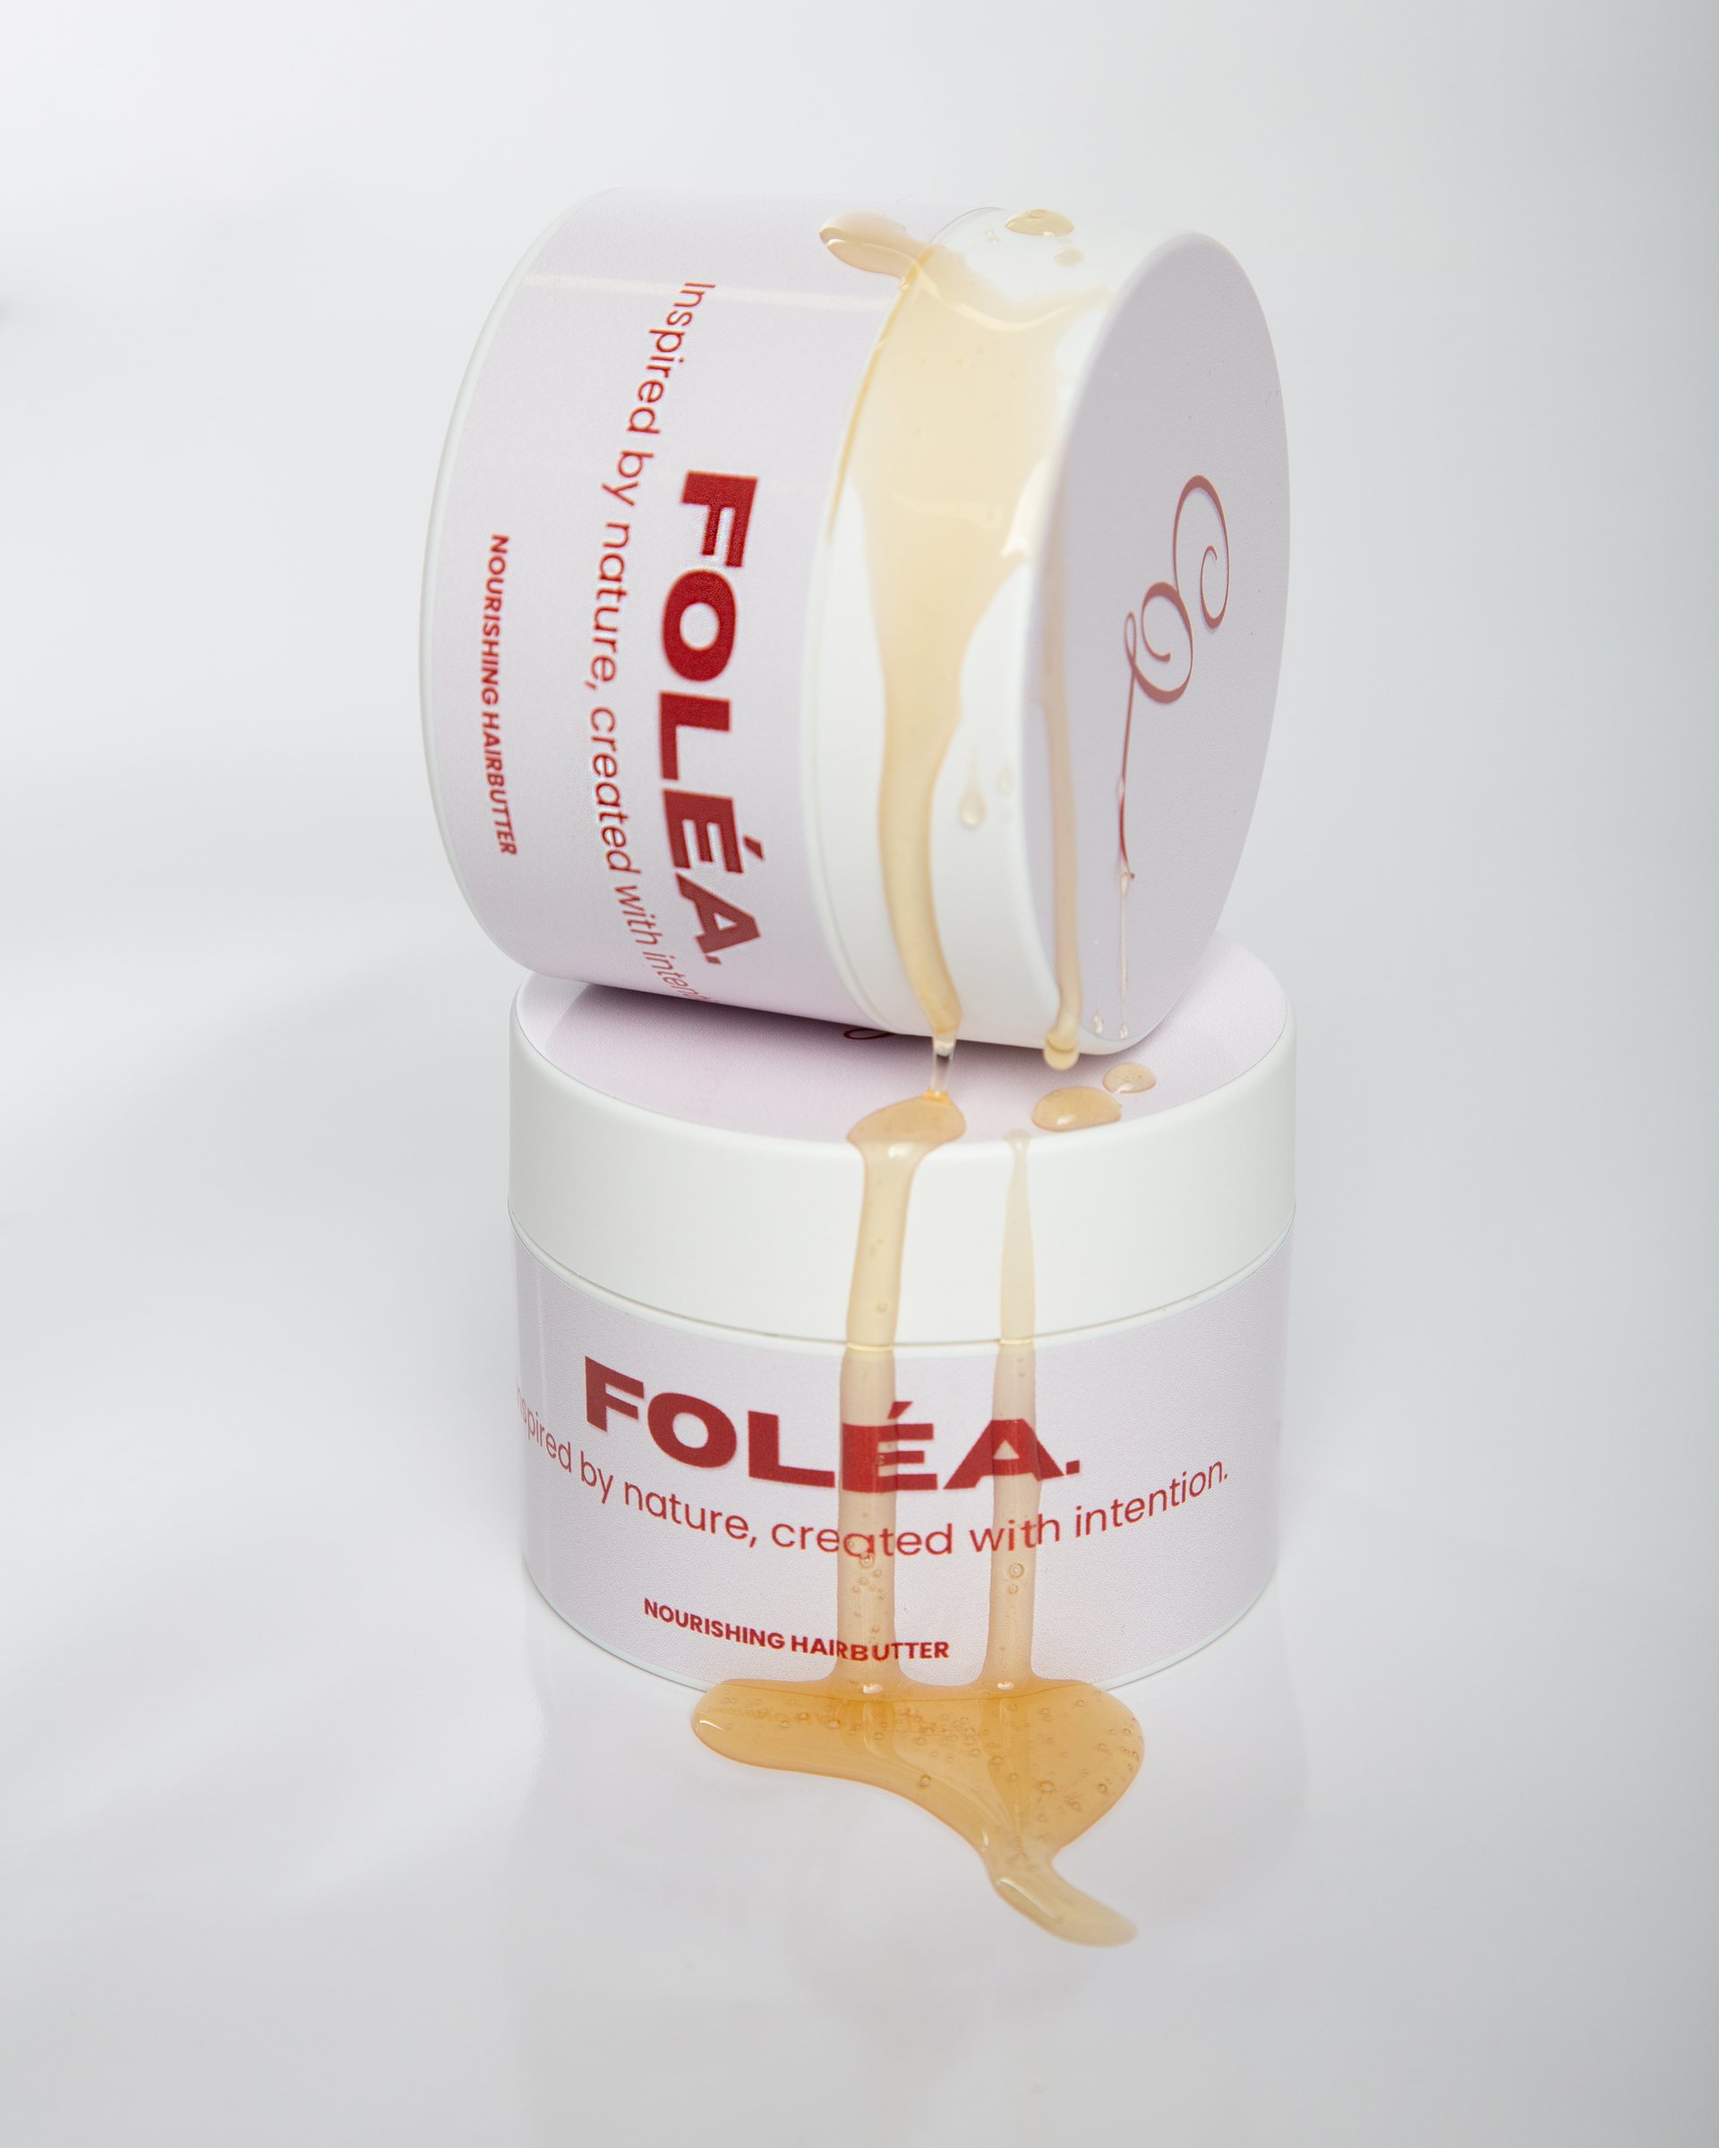
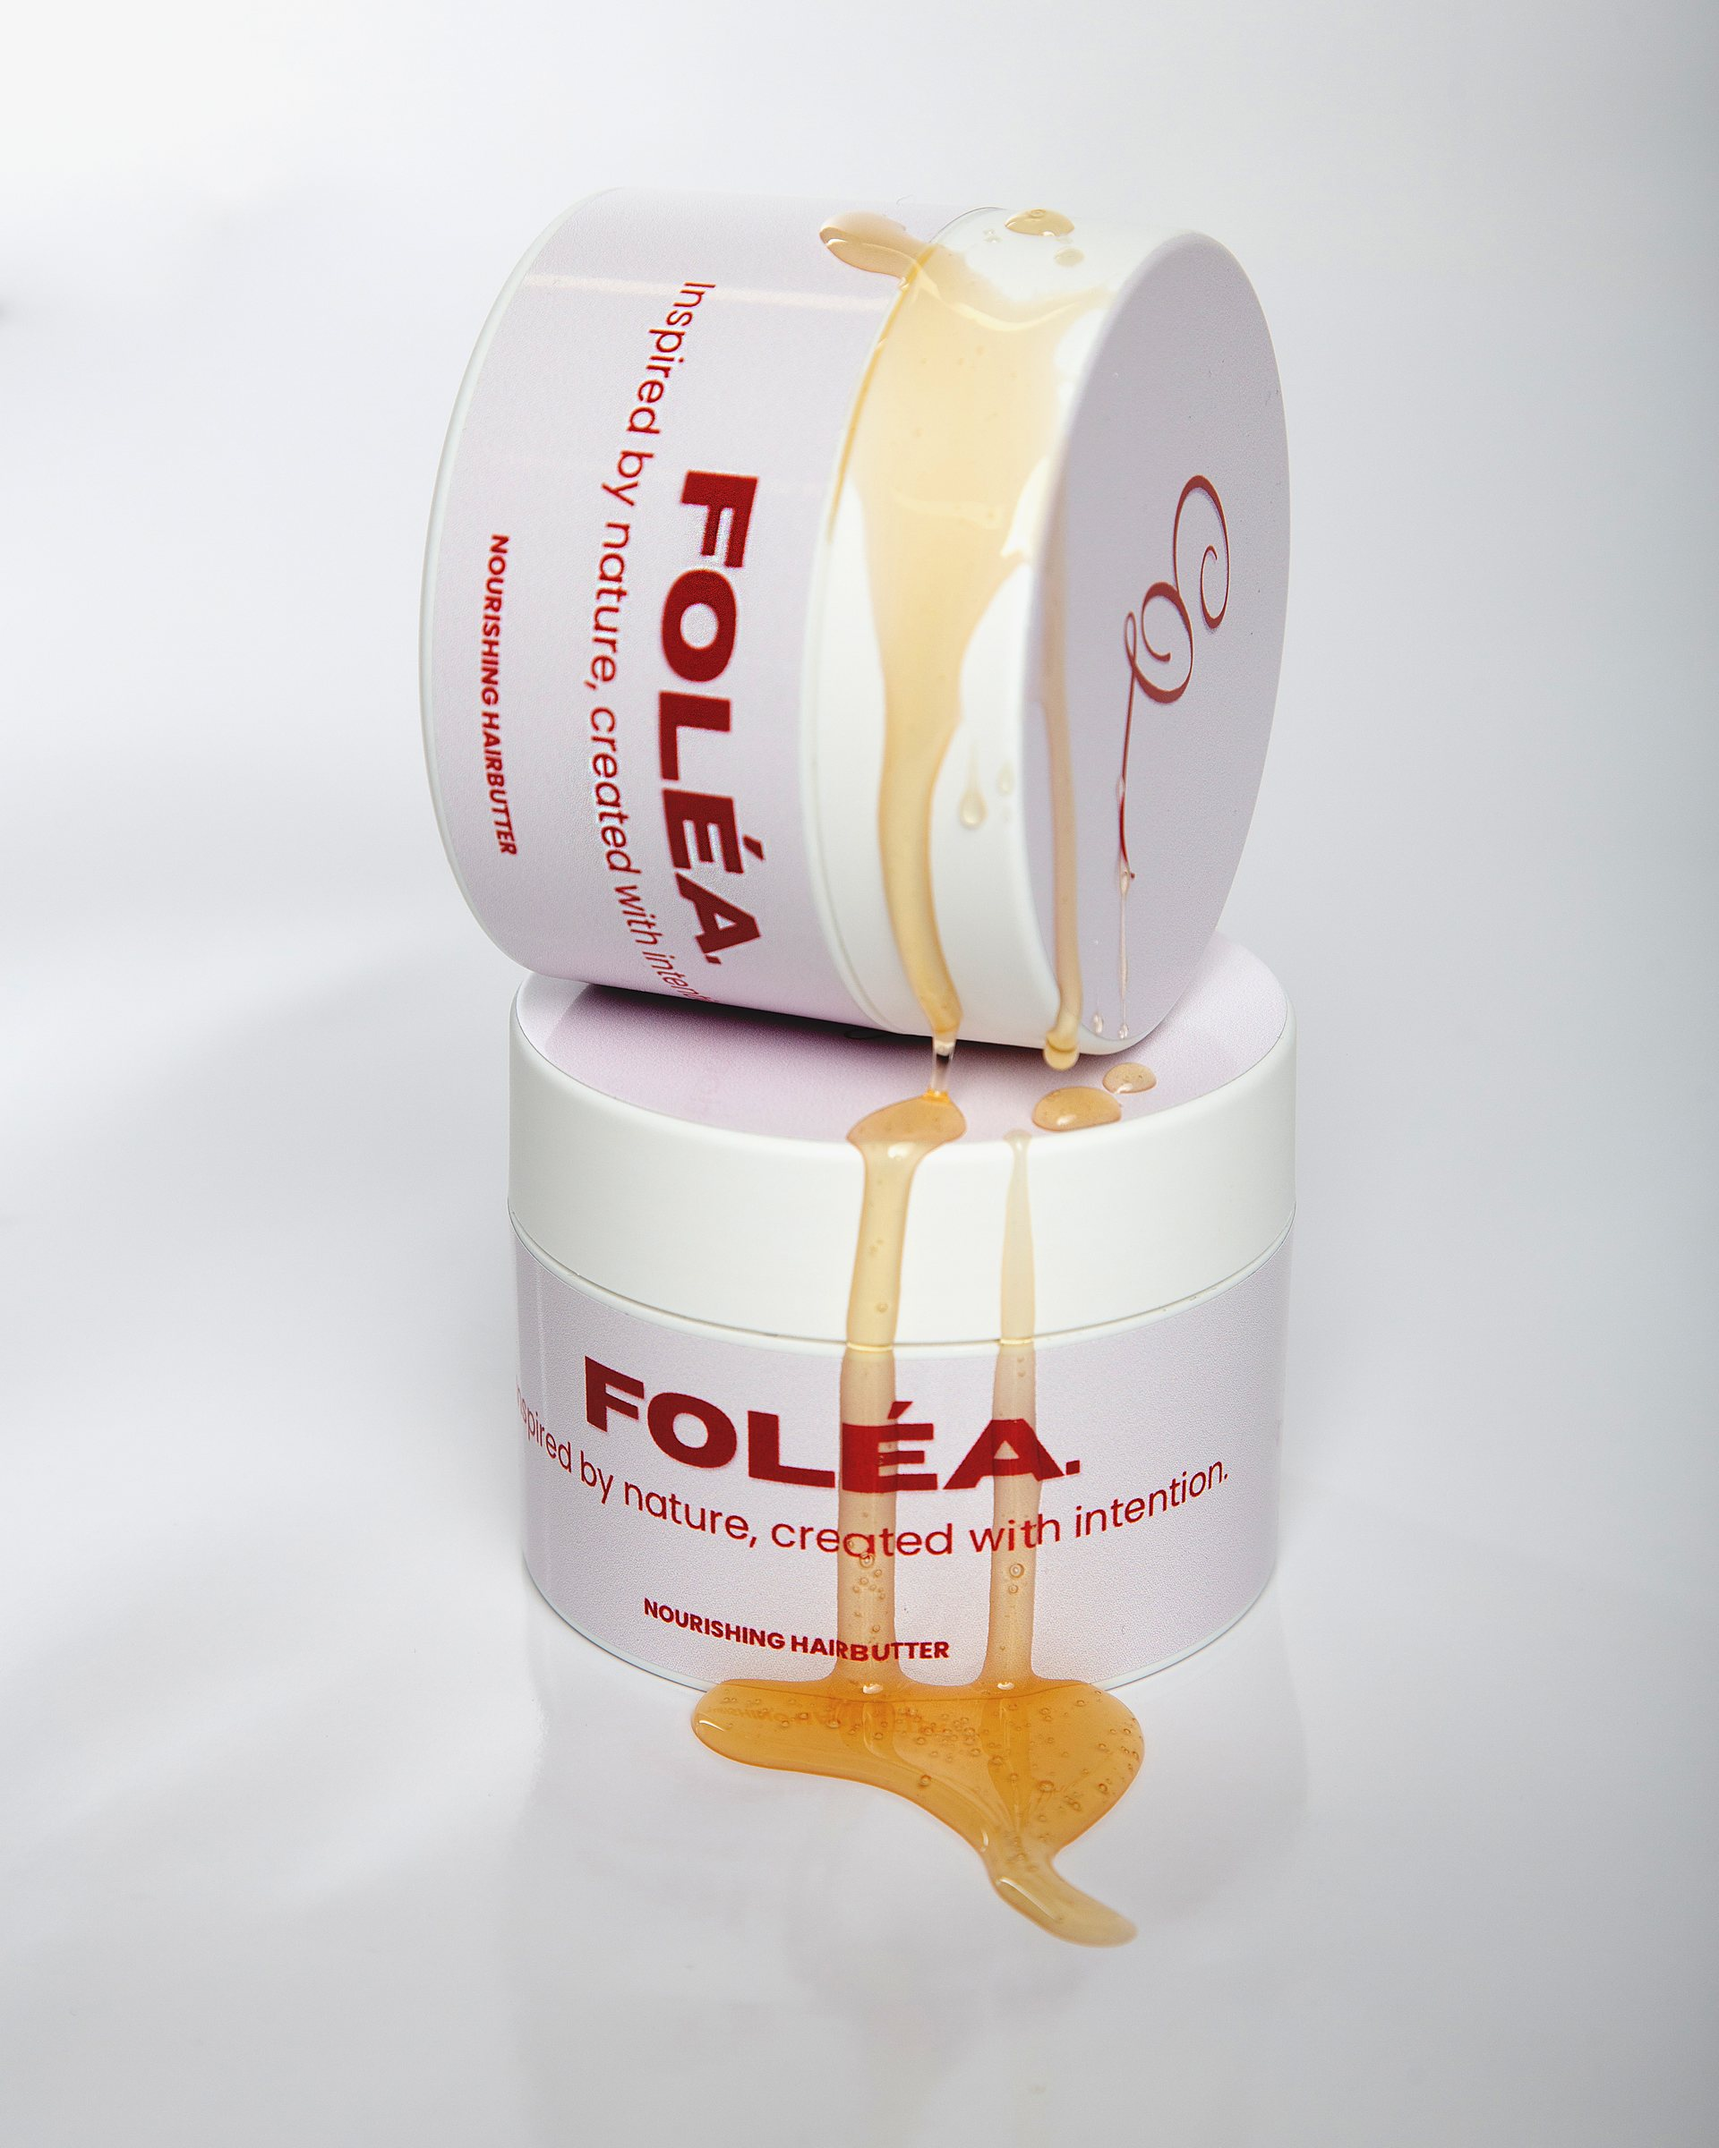
Productfoto's belicht via grading, niet via AI
De klant vond de foto's dof. De meting gaf ze gelijk: tonaal bereik van
114 tot 162 op 255, zonder echt zwart en zonder schoon hooglicht.

Eerst de generatieve route getest, want dat was het verzoek. Die is
onbruikbaar: elk beeldmodel in de catalogus neemt de foto als referentie
en niet als doek, dus het herfotografeerde de scene. De pot verschoof en
werd kleiner, het matte deksel werd glanzend, er kwam een harde
slagschaduw bij en het karmijn van het logo schoof 33 punten weg over
RGB. Eén poging, 1 credit, en daarna gestopt.

Wat wel werkt is graden vanaf de master: zwart- en witpunt zetten met één
LUT over alle drie de kanalen, plus milde verscherping op de zachte
opnames. Bereik gaat naar 190 tot 198. De tint van het karmijn schuift
daarbij 1,8 tot 3,0 graden, ruim onder wat het oog oppikt, terwijl de
verzadiging 10 tot 18 procent stijgt.

product-butter is bewust overgeslagen. De klant noemt die perfect, en het
is de enige opname met een echt achtergrondverloop.

diff --git a/CLAUDE.md b/CLAUDE.md
@@ -182,6 +182,12 @@ The client's full studio shoot has been delivered and is in rotation. Nineteen s
 
 **The six product stills are all 4:5 (1920x2400) and cropped tight from the masters.** The client said the product photos looked weak, and the measurable cause was framing, not the photography: in the master files the jar filled only 8% of the frame on `product-front`, 12% on `product-top`, 15% on `product-trio` and 19% on `product-duo`. The web versions inherited that dead space. Since the masters are 3264x4896, cropping in hard still leaves ~1900px of width, so this cost nothing in resolution and needed no AI.
 
+**Lighting was the second, separate complaint, and generative relighting is ruled out.** Measured tonal range on the shipped stills was 114 to 162 out of 255, with no true black and no clean highlight: that flatness is what reads as dull. One Higgsfield attempt (`seedream_v4_5`, 1 credit) proved the approach unusable here. Every image model in the catalogue takes the photo as `image_references`, not as a canvas to edit, so it re-shot the scene: the jar moved and shrank, the matte lid turned glossy, a hard cast shadow appeared, and the carmine drifted 33 points across RGB. The client's constraints (product unchanged, angle unchanged, no invented shadows, exact logo colour) cannot all hold while a model redraws the frame. Don't retry this with a different prompt; the failure is structural.
+
+What does work is grading from the master: per image, measure the 1st and 99th luminance percentile, map them 85% of the way toward a 20/247 black and white point with one LUT applied to all three channels, then a mild unsharp mask on the soft ones. The identical LUT per channel is what keeps hue intact. Verified by sampling the carmine pixels of the original and comparing the same coordinates after: hue moves 1.8 to 3.0 degrees on average, below the threshold where the eye reads a colour change, while saturation rises 10 to 18 percent, which is exactly the "less dull" the client asked for. **Measure hue as a circular mean over the same pixel set**; averaging raw hue angles across the 0/360 wrap, or re-detecting red pixels after the change, produces nonsense values in the 40 to 95 degree range.
+
+`product-butter` is deliberately excluded from the grading pass. The client calls it perfect and it is the only still with a real background falloff (measured 88 against 14 on `product-top`), which is why it reads better than the rest. There is no from-above frame of the jar in the shoot beyond `product-top`, so a new angle can only come from a reshoot.
+
 The crop pass is reproducible: find the product's bounding box by thresholding brightness (white jar against grey seamless) plus the red-minus-blue channel (pink label and carmine type), pad it, force the box to 4:5, then encode from the master with `cjpeg -quality 84 -optimize -progressive`. **Detect the box with a generous threshold**: a strict one clips the jars' soft edges, and the first pass cut a jar in half at the frame edge. `product-trio` additionally needs its right edge clamped into the gap between the second and third jar, otherwise a sliver of the third jar hangs in frame.
 
 Because every still is now exactly 4:5, the PDP gallery's `object-contain` no longer crops anything away; it was there because `product-trio` used to be 3:2 landscape while the rest were 2:3. The frame itself (`aspect-[4/5]` on mobile, `sm:h-[560px]` with a flex width above it) still letterboxes at mid widths, so it is worth revisiting if you touch that component. Check the aspect ratio of the file before choosing any new image frame.
